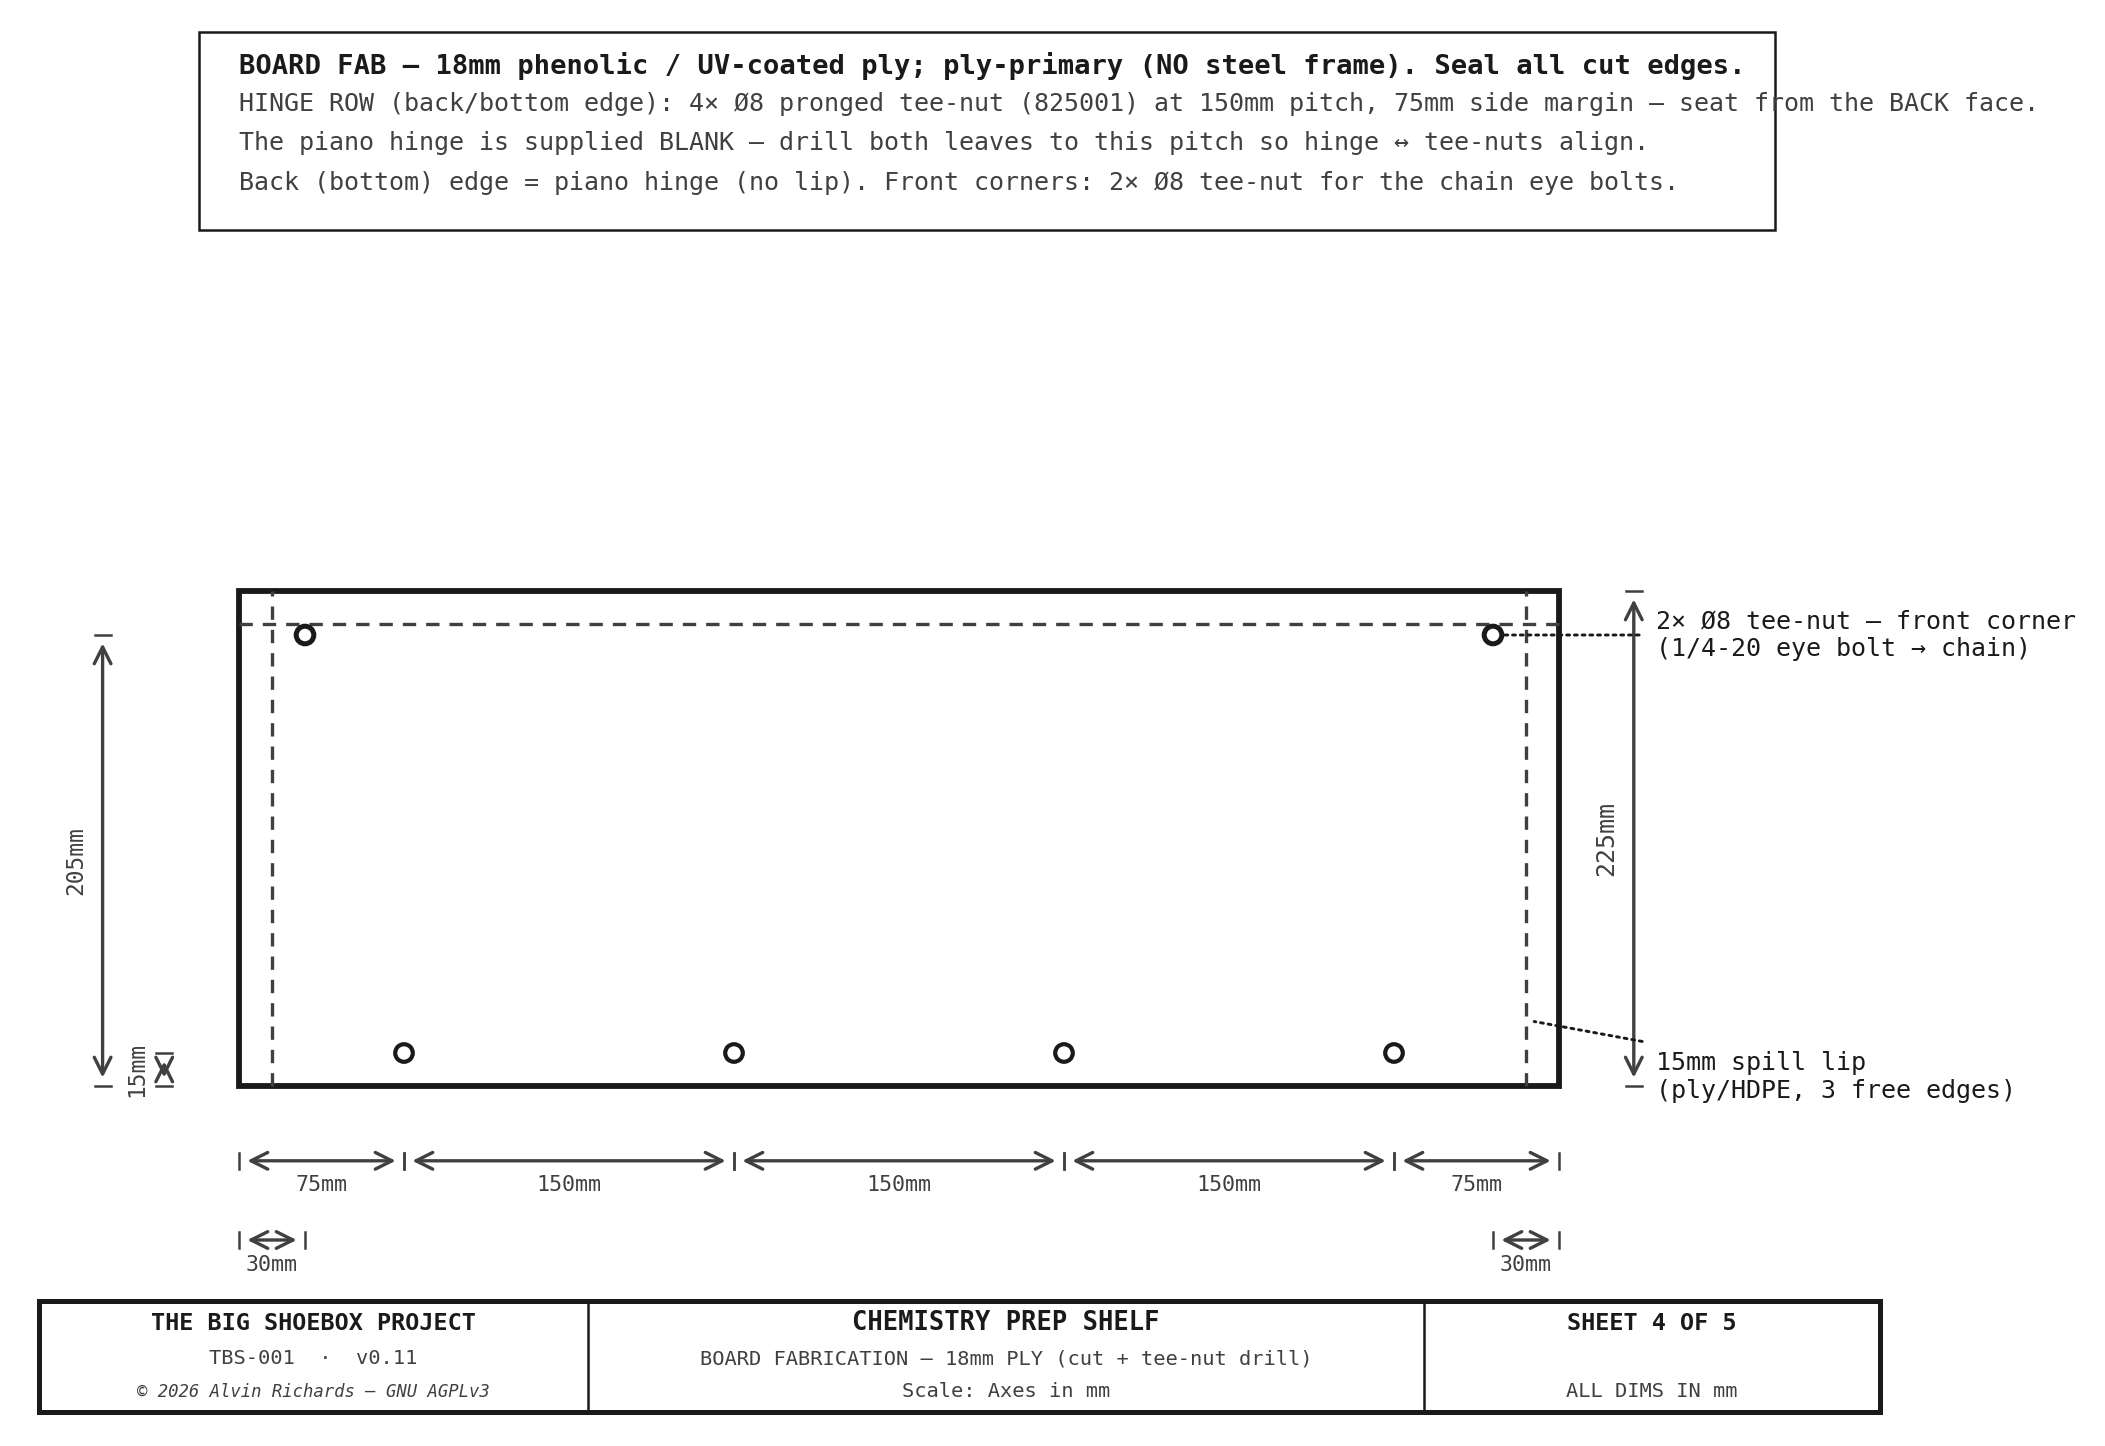
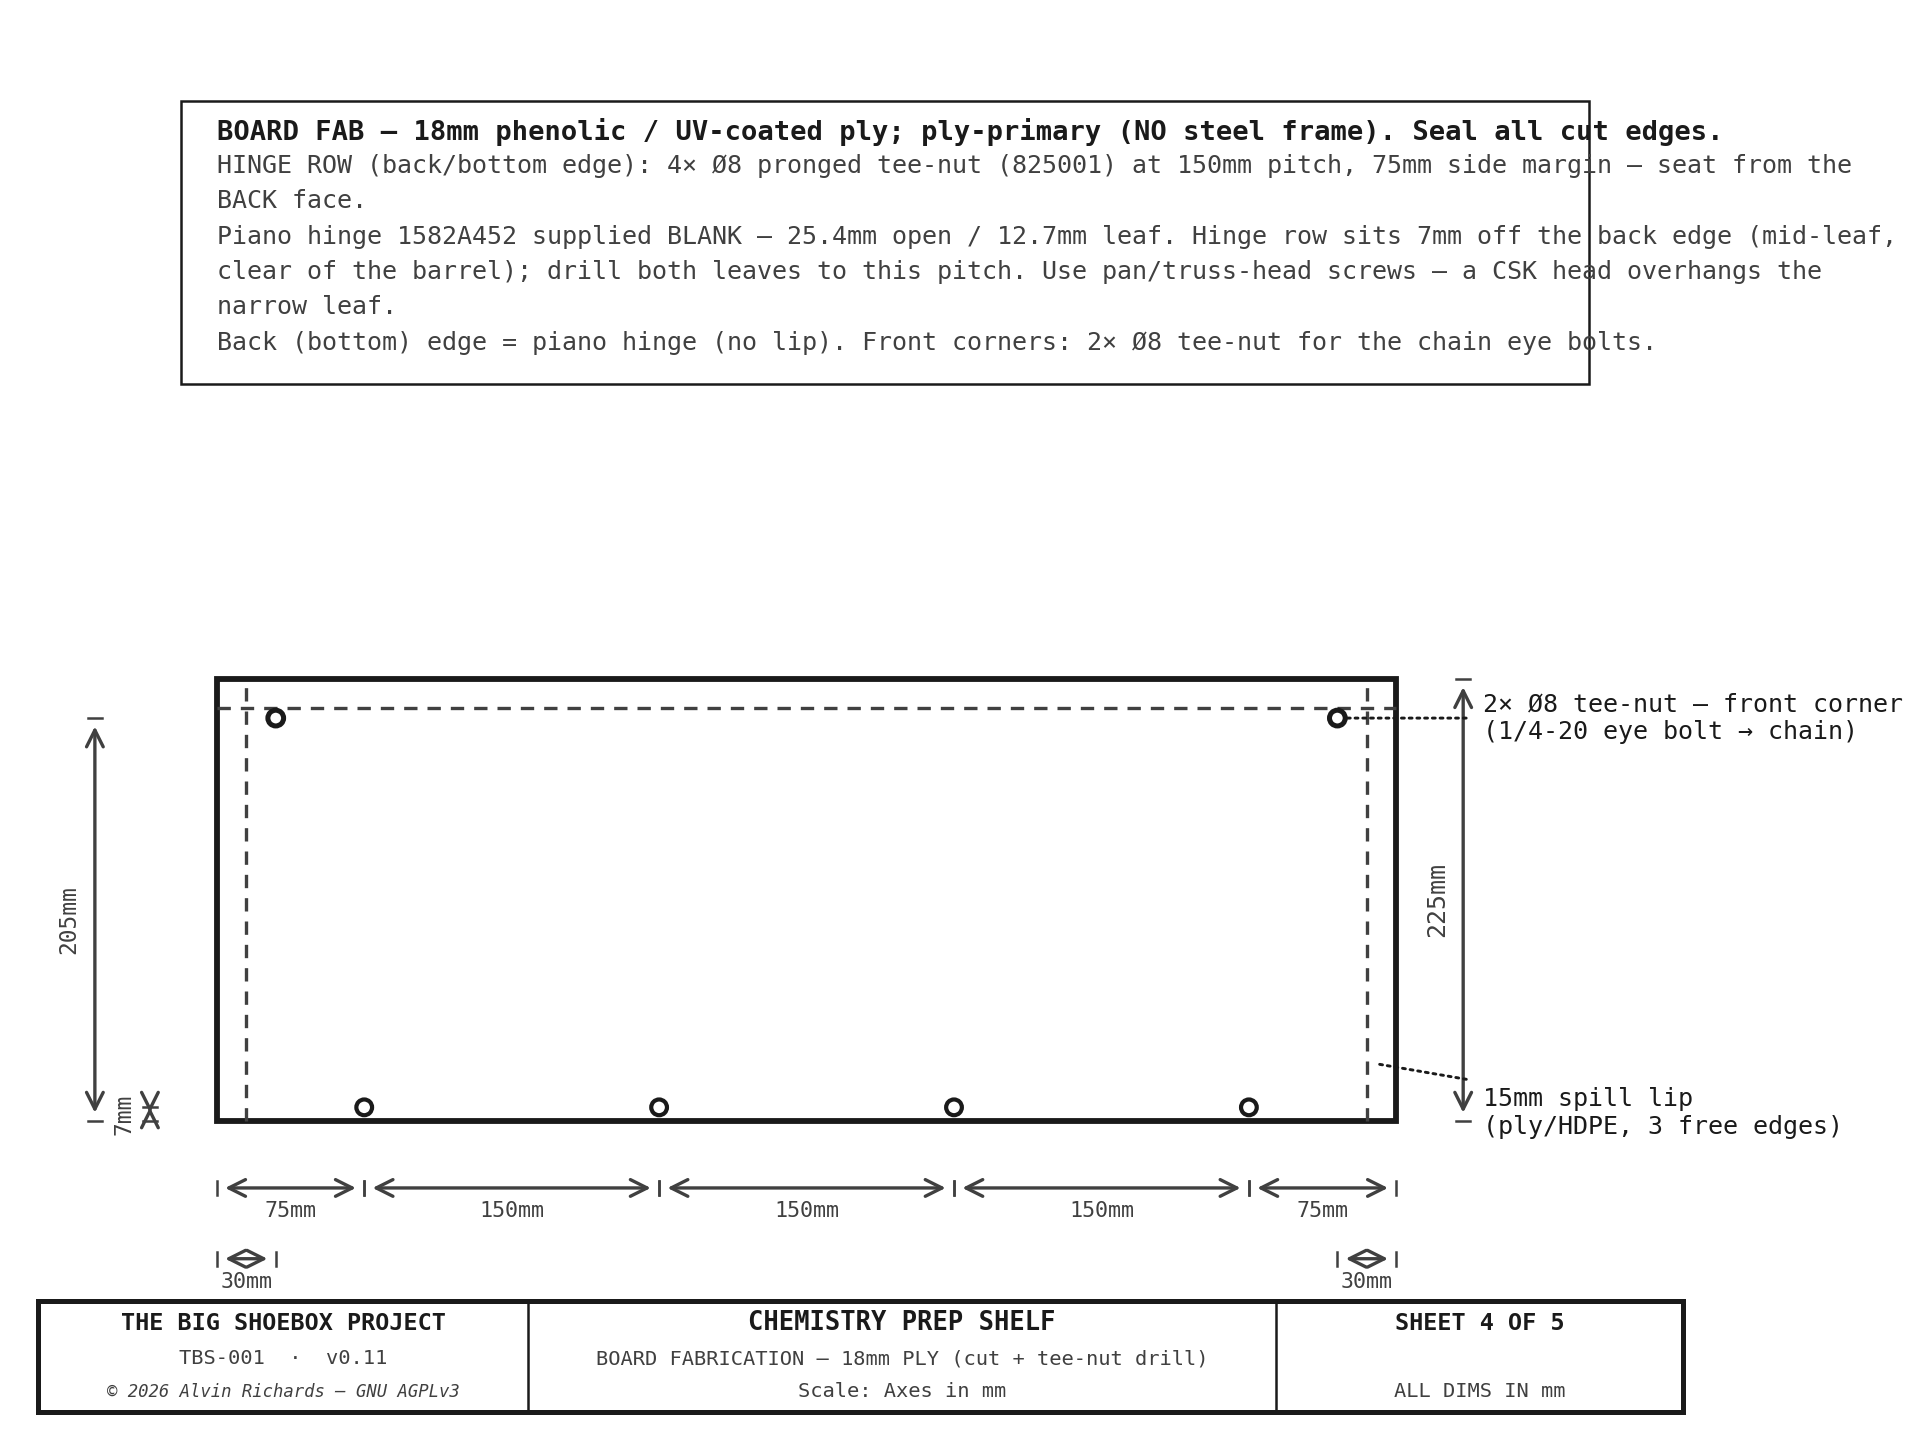
Chem-shelf hinge: reconcile to 1582A452 datasheet (12.7mm leaf)
The blank piano hinge is 25.4mm open / 12.7mm leaf, not the assumed
~32mm. The hinge tee-nut row was at 15mm inset -- off the 12.7mm leaf --
so moved to 7mm (mid-leaf, clear of the 2.9mm barrel). Fab Sheet 4 note,
parts spec and report updated with the true open/leaf width, 2ft stock,
and the pan/truss-head requirement (a CSK head overhangs the leaf).
Cost-neutral.

diff --git a/src/generators/generate_shelf_diagram.py b/src/generators/generate_shelf_diagram.py
@@ -248,7 +248,7 @@ def sheet3():
 TNUT_HINGE_N  = 4                                  # hinge bolts (into tee-nuts) along the back edge
 TNUT_MARGIN_X = 75                                 # first/last hinge tee-nut inset from the board sides
 TNUT_HINGE_PITCH = (SHELF_W - 2 * TNUT_MARGIN_X) / (TNUT_HINGE_N - 1)   # = 150mm
-TNUT_HINGE_YD = 15                                 # hinge tee-nut row inset from the back (hinge) edge
+TNUT_HINGE_YD = 7                                  # hinge tee-nut row inset — mid-leaf of the 12.7mm hinge leaf (1582A452 datasheet), clear of the ~2.9mm barrel
 TNUT_EYE_X    = 30                                 # front-corner eye-bolt tee-nut inset from each side
 TNUT_EYE_YD   = SHELF_DEPTH - 20                   # eye-bolt tee-nut inset from the front edge
 TNUT_HOLE_D   = 8                                  # tee-nut barrel hole (5/16") — Ø8
@@ -263,7 +263,7 @@ EYE_XS        = [TNUT_EYE_X, SHELF_W - TNUT_EYE_X]
 def sheet4():
     fig, ax = plt.subplots(figsize=(11, 6))
     fig.patch.set_facecolor(BG); ax.set_facecolor(BG)
-    ax.set_xlim(-95, SHELF_W + 150); ax.set_ylim(-150, SHELF_DEPTH + 255)
+    ax.set_xlim(-95, SHELF_W + 150); ax.set_ylim(-150, SHELF_DEPTH + 330)
     ax.set_aspect("equal"); ax.axis("off")
 
     # board outline (top view; back edge = hinge at Yd0, front edge at Yd=SHELF_DEPTH)
@@ -306,9 +306,11 @@ def sheet4():
         "BOARD FAB — 18mm phenolic / UV-coated ply; ply-primary (NO steel frame). Seal all cut edges.",
         f"HINGE ROW (back/bottom edge): {TNUT_HINGE_N}× Ø{TNUT_HOLE_D} pronged tee-nut (825001) at "
         f"{int(TNUT_HINGE_PITCH)}mm pitch, {TNUT_MARGIN_X}mm side margin — seat from the BACK face.",
-        "The piano hinge is supplied BLANK — drill both leaves to this pitch so hinge ↔ tee-nuts align.",
+        "Piano hinge 1582A452 supplied BLANK — 25.4mm open / 12.7mm leaf. Hinge row sits 7mm off the "
+        "back edge (mid-leaf, clear of the barrel); drill both leaves to this pitch. Use pan/truss-head "
+        "screws — a CSK head overhangs the narrow leaf.",
         "Back (bottom) edge = piano hinge (no lip). Front corners: 2× Ø8 tee-nut for the chain eye bolts.",
-    ], 0, SHELF_DEPTH + 245, spacing=18, fs=6, width=680, font=FONT)
+    ], 0, SHELF_DEPTH + 285, spacing=18, fs=6, width=680, wrap=112, font=FONT)
 
     title_block(ax, "SHEET 4 OF 5", drawing_title="CHEMISTRY PREP SHELF",
                 subtitle="BOARD FABRICATION — 18mm PLY (cut + tee-nut drill)",
@@ -381,7 +383,7 @@ def sheet5():
     # ── fastener + hardware schedule (bottom zone) ──
     rows = [
         "FASTENER / HARDWARE SCHEDULE",
-        "Piano hinge (bolt-on, BLANK)   304 SS, ~32mm open × 600mm   McMaster 1582A457   ×1",
+        "Piano hinge (bolt-on, BLANK)   304 SS, 25.4mm open / 12.7mm leaf, 2ft stock  1582A457  ×1",
         "Hinge screws                   1/4-20 SS × ~3/4in            (SKU pending)         ×4",
         "Ply tee-nuts                   1/4-20 pronged (825001)       Home Depot            ×6 (+spares)",
         "Front-corner eye bolts         1/4-20 SS × 1in               McMaster 3014T45      ×2",

diff --git a/src/generators/parts.py b/src/generators/parts.py
@@ -1036,7 +1036,7 @@ PARTS: list[Part] = [
     # (2026-09-07, chem-shelf-blueprint-spec.md): the plywood is the structure; attachments land in
     # ply tee-nuts (1/4-20 ply-mount standard); stays are SS chain. M5 family eliminated.
     Part("shelf-piano-hinge", "Bolt-on continuous (piano) hinge, 600 mm, SS", "fasteners-hardware",
-         "shelf", 1, "ea", 6.23, 6.23, "McMaster-Carr", part_no="1582A457", url="https://www.mcmaster.com/1582A457-1582A452/", spec="304 SS BOLT-ON continuous hinge, ~32mm open × 600mm, supplied BLANK (undrilled) — drill both leaves to the 150mm tee-nut pitch (4 bolts) so the hinge, the ply tee-nuts and the cleat all align. Shelf leaf 1/4-20 SS machine-screwed into the ply tee-nut row; wall leaf to the 6mm cleat/backing plate. $6.23/2ft (1582A457) — replaces the retired weld-on LSN8-32-600 ($23.56), cheaper."),
+         "shelf", 1, "ea", 6.23, 6.23, "McMaster-Carr", part_no="1582A457", url="https://www.mcmaster.com/1582A457-1582A452/", spec="304 SS BOLT-ON continuous hinge, 25.4mm open / 12.7mm leaf (1582A452 datasheet), 2ft (610mm) stock cut to 600, supplied BLANK (undrilled) — drill both leaves to the 150mm tee-nut pitch (4 bolts), the row 7mm off the edge (mid-leaf) so the hinge, the ply tee-nuts and the cleat all align. Shelf leaf 1/4-20 SS machine-screwed (pan/truss head — a CSK head overhangs the 12.7mm leaf) into the ply tee-nut row; wall leaf to the 6mm cleat/backing plate. $6.23/2ft (1582A457) — replaces the retired weld-on LSN8-32-600 ($23.56), cheaper."),
     Part("shelf-chain", "304 SS chain — 2 tension stays", "fasteners-hardware",
          "shelf", 1, "3ft", 23.79, 23.79, "McMaster-Carr", part_no="3392T51", url="https://www.mcmaster.com/3392T51-3392T512/", spec="304 SS ~4mm chain, 2 tension stays (front corner → wall anchor ~230mm above the hinge), ~1m used of the 3ft; trimmed to set the deployed level. WLL >> the ~91N tension demand (chem_shelf_load.py SF 5.4). $23.79/3ft."),
     Part("shelf-eye-bolt", "1/4\"-20 SS eye bolt — shelf front-corner chain anchor", "fasteners-hardware",

diff --git a/chemistry-prep-shelves.md b/chemistry-prep-shelves.md
@@ -191,7 +191,7 @@ shelf is only down while mixing. Folded up, the walkway is fully clear in both d
 | Item | Spec | Qty | Supplier | Est. cost |
 |------|------|-----|----------|-----------|
 | [UV-coated white plywood (work surface)](https://www.homedepot.com/p/302874373) (BPI6WUV2I) | Swaner 18mm × 4'×8' UV-coated white hardwood ply (1220×2440mm), cut to 300×600. UV-coated face gives a sealed, wipeable work surface — substitute for the phenolic concrete-form sheet (same purpose, readily stocked). | 1 4'×8' 18mm sheet | Home Depot | $73 |
-| [Bolt-on continuous (piano) hinge, 600 mm, SS](https://www.mcmaster.com/1582A457-1582A452/) (1582A457) | 304 SS BOLT-ON continuous hinge, ~32mm open × 600mm, supplied BLANK (undrilled) — drill both leaves to the 150mm tee-nut pitch (4 bolts) so the hinge, the ply tee-nuts and the cleat all align. Shelf leaf 1/4-20 SS machine-screwed into the ply tee-nut row; wall leaf to the 6mm cleat/backing plate. $6.23/2ft (1582A457) — replaces the retired weld-on LSN8-32-600 ($23.56), cheaper. | 1 ea | McMaster-Carr | $6 |
+| [Bolt-on continuous (piano) hinge, 600 mm, SS](https://www.mcmaster.com/1582A457-1582A452/) (1582A457) | 304 SS BOLT-ON continuous hinge, 25.4mm open / 12.7mm leaf (1582A452 datasheet), 2ft (610mm) stock cut to 600, supplied BLANK (undrilled) — drill both leaves to the 150mm tee-nut pitch (4 bolts), the row 7mm off the edge (mid-leaf) so the hinge, the ply tee-nuts and the cleat all align. Shelf leaf 1/4-20 SS machine-screwed (pan/truss head — a CSK head overhangs the 12.7mm leaf) into the ply tee-nut row; wall leaf to the 6mm cleat/backing plate. $6.23/2ft (1582A457) — replaces the retired weld-on LSN8-32-600 ($23.56), cheaper. | 1 ea | McMaster-Carr | $6 |
 | [304 SS chain — 2 tension stays](https://www.mcmaster.com/3392T51-3392T512/) (3392T51) | 304 SS ~4mm chain, 2 tension stays (front corner → wall anchor ~230mm above the hinge), ~1m used of the 3ft; trimmed to set the deployed level. WLL >> the ~91N tension demand (chem_shelf_load.py SF 5.4). $23.79/3ft. | 1 3ft | McMaster-Carr | $24 |
 | [1/4"-20 SS eye bolt — shelf front-corner chain anchor](https://www.mcmaster.com/3014T45/) (3014T45) | 304 SS 1/4-20 eye bolt into a ply tee-nut at each front corner (~1in shank; tip protrudes ~7mm through the 18mm top — cap/grind at the corner). Chain hooks to the eye. $4.16 ea. | 2 ea | McMaster-Carr | $8 |
 | [M8 SS eye bolt — chain wall anchor](https://www.mcmaster.com/4843T13/) (4843T13) | 304 SS M8 eye bolt into the backing-plate M8 weld-nut ~230mm above the hinge (reuses the M8 wall standard) — the chain's top anchor. $7.80 ea. | 2 ea | McMaster-Carr | $16 |

diff --git a/RELEASE.md b/RELEASE.md
@@ -86,6 +86,11 @@ file** — a release must not ship without a changelog entry:
   supplied BLANK — leaves drilled to the tee-nut pitch so hinge/tee-nuts/cleat align. The 4-bolt hinge (down
   from 6) cascaded to the schedule, parts registry (hinge screws ×4, ply tee-nuts ×2 4-pack) and costing
   (shelf −$3/$3/$4). Registered (gallery, dependencies.yml, publish) + embedded in the report §3.5.
+- **Chem-shelf hinge reconciled to the 1582A452 datasheet.** The blank piano hinge is **25.4mm open /
+  12.7mm leaf** (not the assumed ~32mm) — so the hinge tee-nut row inset was moved from 15mm (off the
+  leaf) to **7mm** (mid-leaf, clear of the ~2.9mm barrel). Fab Sheet 4 note, `parts.py` and the report
+  now carry the true open/leaf width, the 2ft stock length, and the pan/truss-head requirement (a CSK
+  head overhangs the narrow leaf). Cost-neutral.
 - **M5 retirement deferred to the chem-shelf design.** M5×16 CSK is now only the chem-shelf ply attachment
   (the film-clamp clips it shared were retired to nylon spring clamps); its retirement now targets a flange
   bolt + nyloc under the shelf (not an M6 CSK into the thin frame) and waits on the chem-shelf blueprint.
